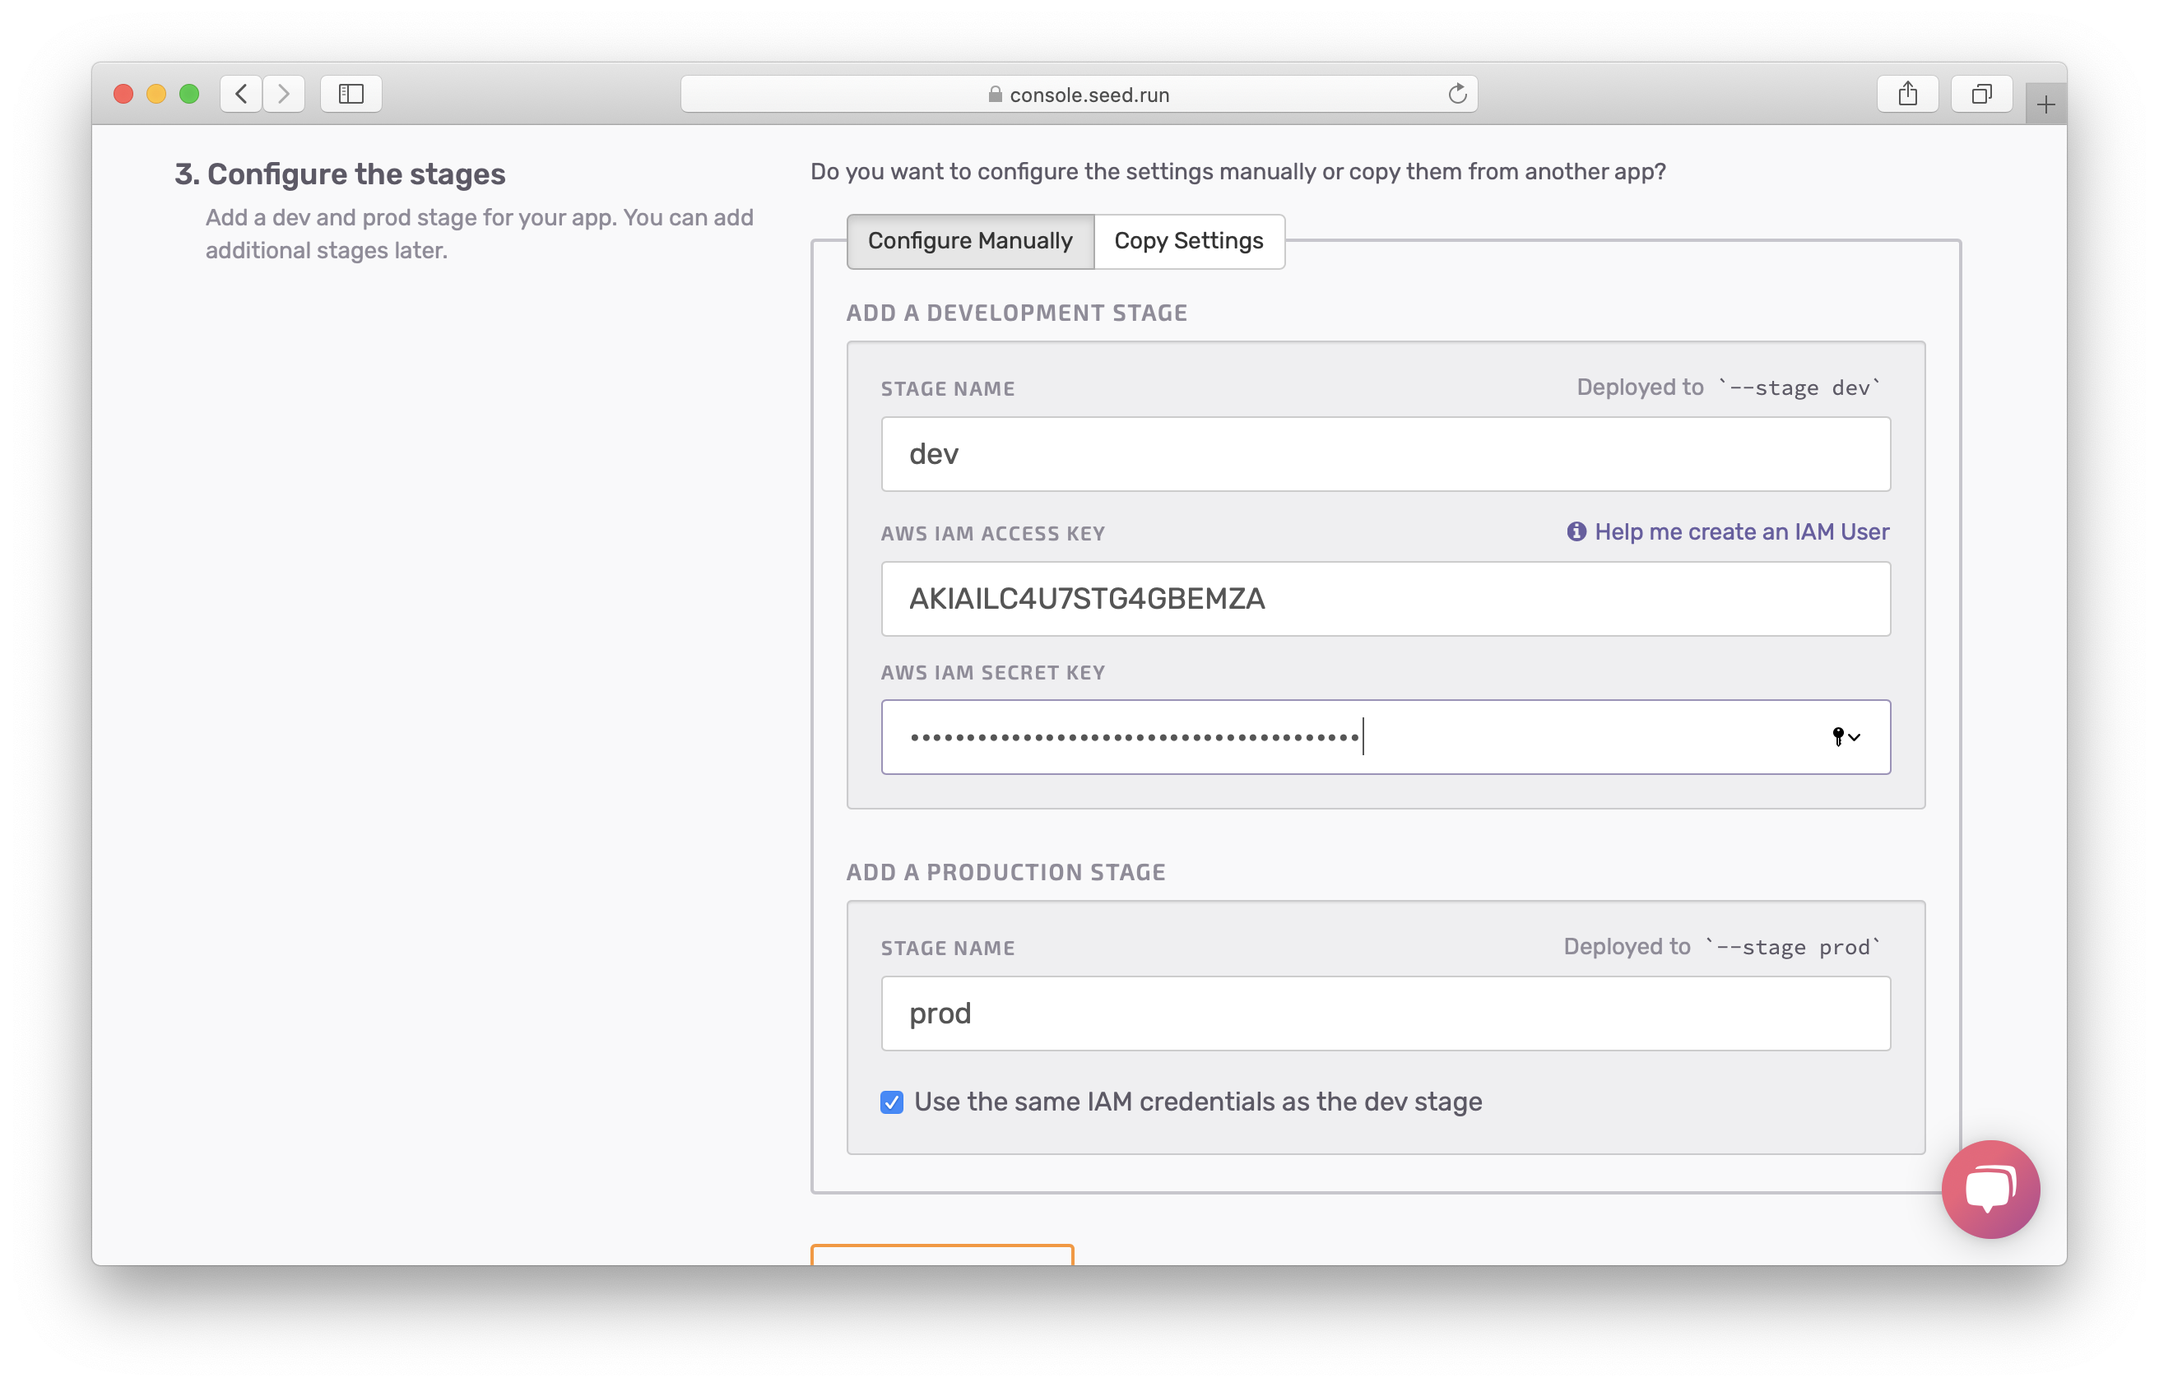
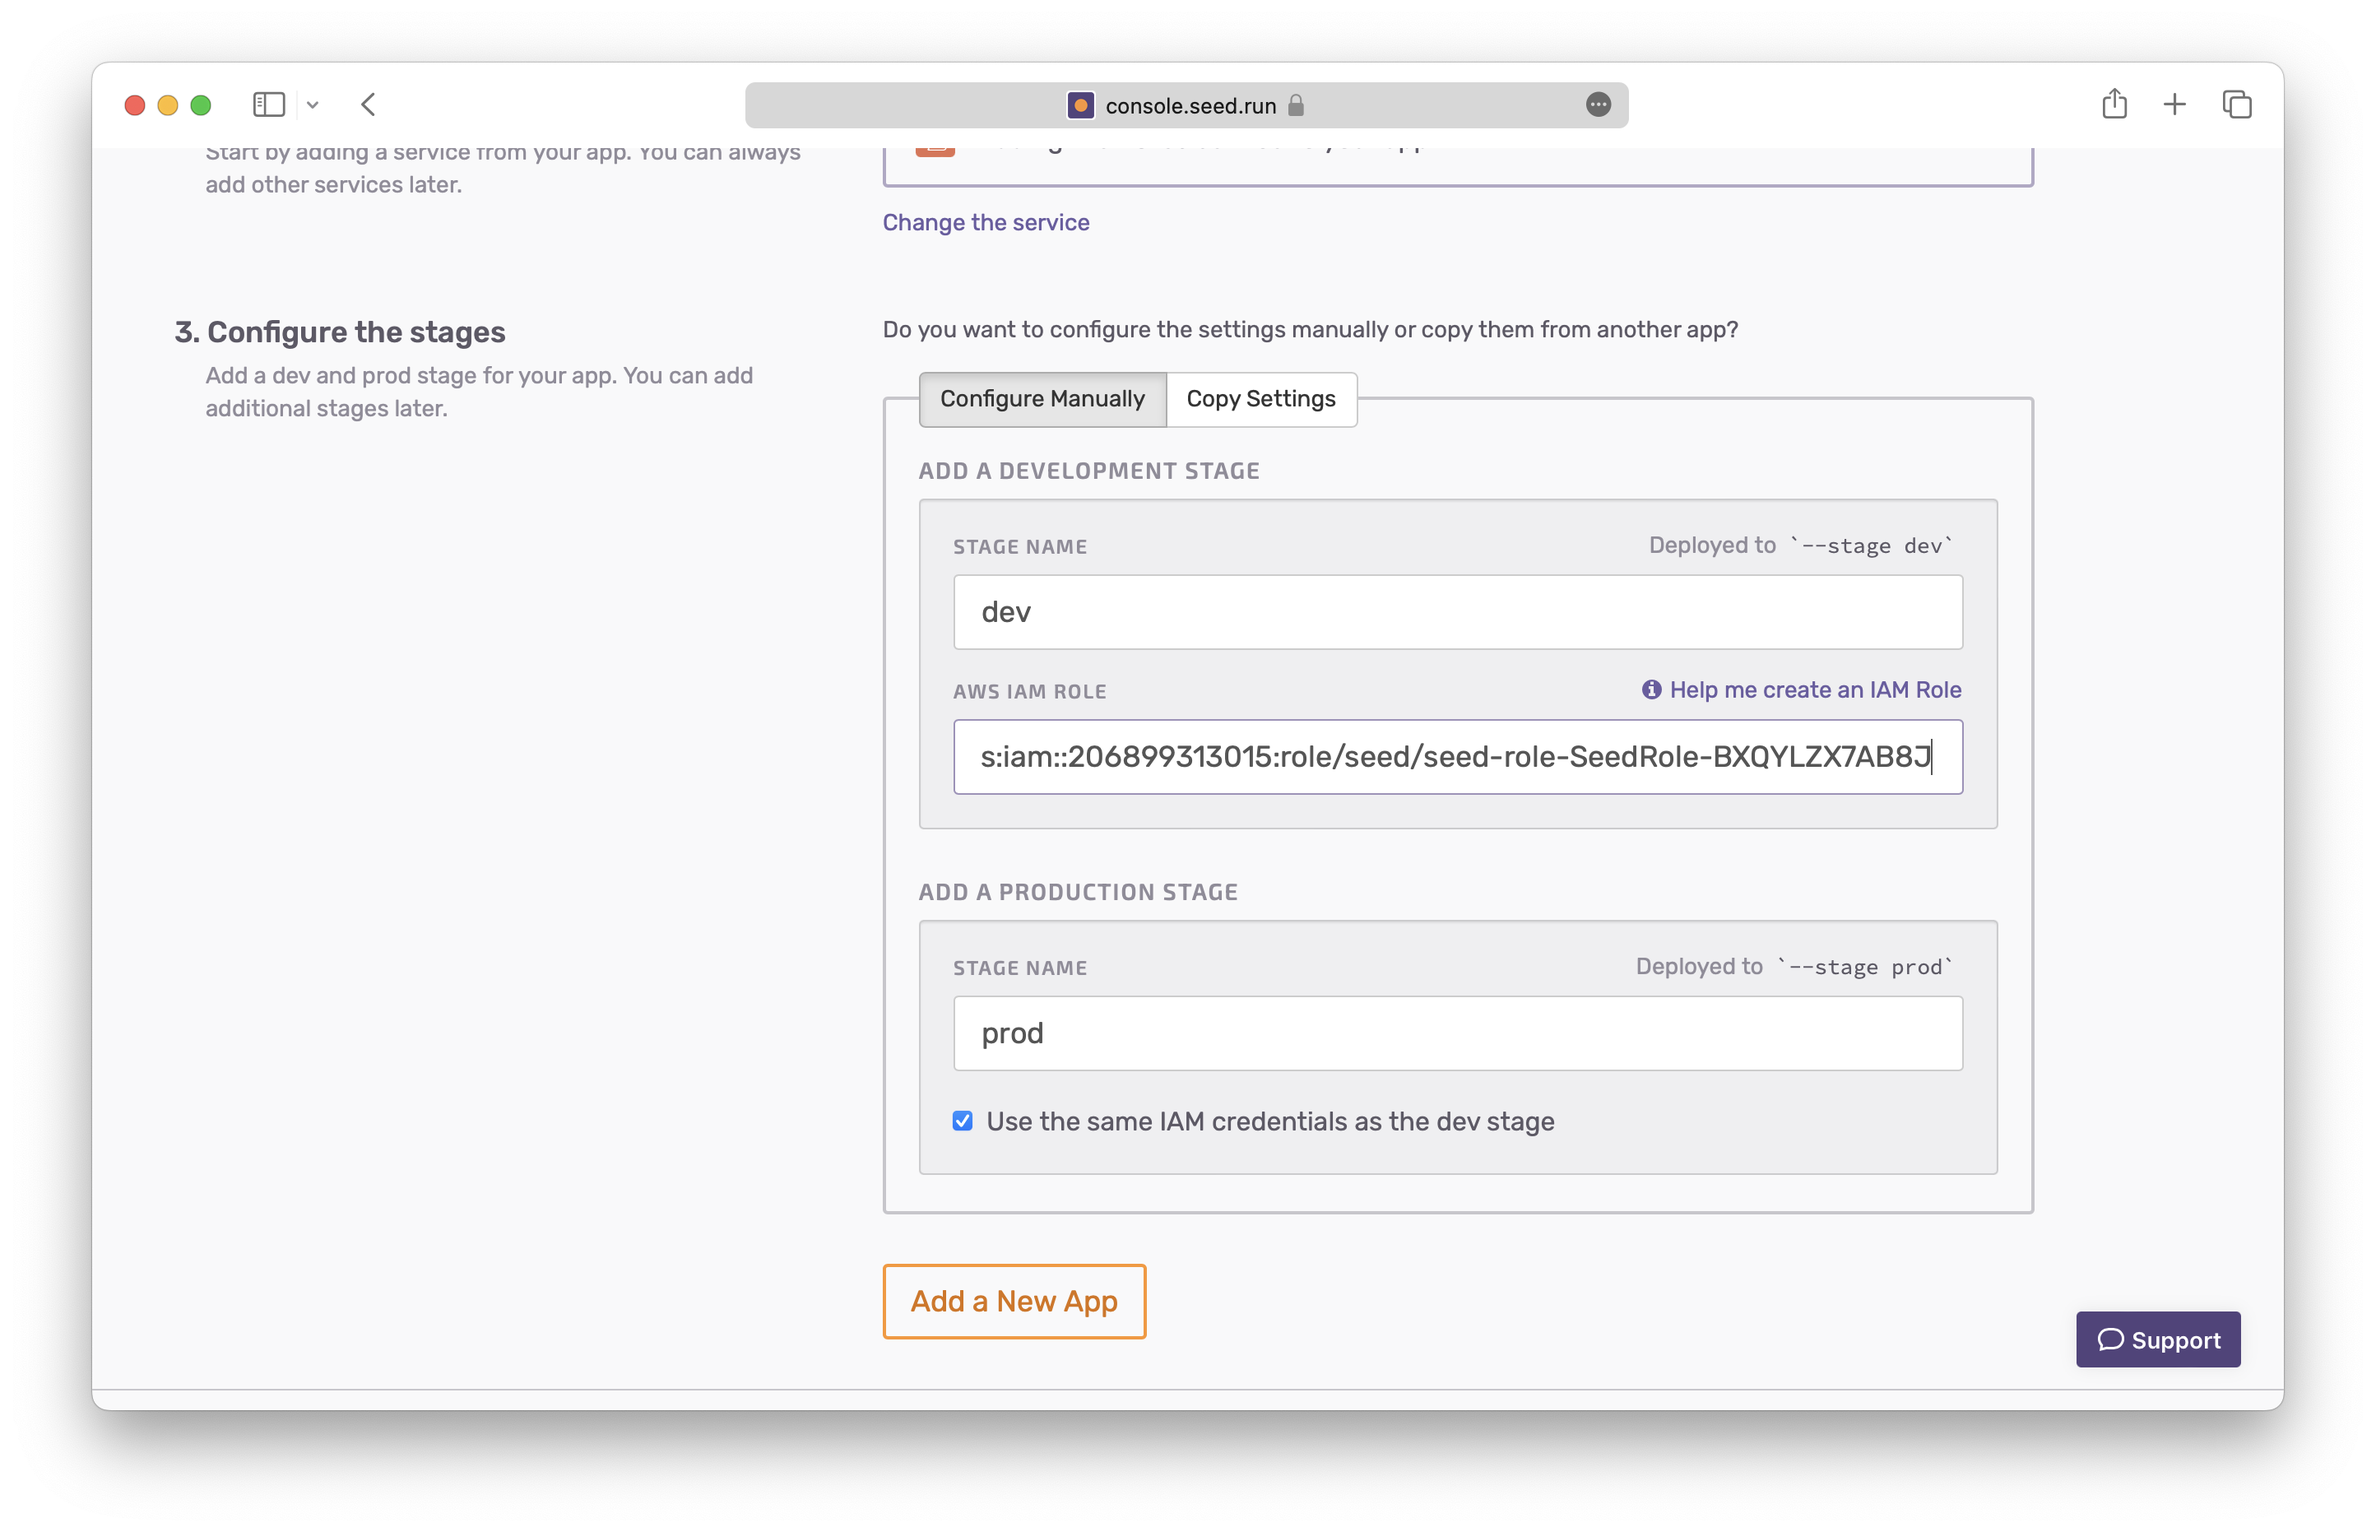
Editing Seed IAM role steps

diff --git a/_chapters/setting-up-your-project-on-seed.md b/_chapters/setting-up-your-project-on-seed.md
@@ -28,33 +28,45 @@ Next, Seed will automatically detect the `sst.config.ts` file in your repo. Clic
 
 ![SST app detected](/assets/part2/sst-app-detected.png)
 
-Seed deploys to your AWS account on your behalf. You should create a separate IAM user with exact permissions that your project needs. You can read more about this [here](https://seed.run/docs/customizing-your-iam-policy). But for now we'll simply use the one we've used in this tutorial.
+Seed uses an IAM role to deploy to your AWS account on your behalf. It's more secure than the IAM user we created previously in this guide. An IAM role gives Seed temporary IAM credentials to deploy your app. These credentials expire after a short period of time.
 
-{%change%} Run the following command.
+![Seed AWS IAM Role form](/assets/part2/seed-aws-iam-role-form.png)
 
-``` bash
-$ cat ~/.aws/credentials
+You should create this IAM role with the exact permissions that your project needs. You can read more about this [here](https://seed.run/docs/customizing-your-iam-policy). But for now we'll simply use the default one.
+
+![Seed create IAM role](/assets/part2/seed-create-iam-role.png)
+
+Click the **Create an IAM Role using CloudFormation** button. This will send you to the AWS Console and ask you to create a CloudFormation stack.
+
+![AWS create CloudFormation stack](/assets/part2/aws-create-cloudformation-stack.png)
+
+Scroll down, **confirm** the checkbox at the bottom and click **Create stack**.
+
+![AWS click create CloudFormation stack](/assets/part2/aws-click-create-cloudformation-stack.png)
+
+It will take a couple of minutes to create the stack. Once complete, click the **Outputs** tab.
+
+![AWS CloudFormation stack outputs](/assets/part2/aws-cloudformation-stack-outputs.png)
+
+Copy the **RoleArn value**. Ours looks something like this.
+
+```text
+arn:aws:iam::206899313015:role/seed/seed-role-SeedRole-BXQYLZX7AB8J
 ```
 
-The output should look something like this.
-
-``` txt
-[default]
-aws_access_key_id = YOUR_IAM_ACCESS_KEY
-aws_secret_access_key = YOUR_IAM_SECRET_KEY
-```
-
-Seed will also create a couple of stages (or environments) for you. By default, it'll create a **dev** and a **prod** stage using the same AWS credentials. You can customize these but we'll use the defaults.
-
-Fill in the credentials and click **Add a New App**.
+Now back in Seed, you can paste the credentials.
 
 ![Add AWS IAM credentials](/assets/part2/add-aws-iam-credentials.png)
 
+Seed will also create a couple of stages (or environments) for you. By default, it'll create a **dev** and a **prod** stage using the same AWS credentials. You can customize these but we'll use the defaults.
+
+Finally click **Add a New App**.
+
 Your new app is created. You'll notice a few things here. First, we have a service called **notes**. It's picking up the name from our `sst.config.ts` file. You can choose to change this by clicking on the service and editing its name.  You'll also notice the two stages that have been created.
 
-Our app can have multiple services within it. A service (roughly speaking) is a reference to a `sst.config.ts` or `serverless.yml` file (for Serverless Framework). In our case we just have the one service.
-
 ![Seed app homepage](/assets/part2/seed-app-homepage.png)
+
+Our app can have multiple services within it. A service (roughly speaking) is a reference to a `sst.config.ts` or `serverless.yml` file (for Serverless Framework). In our case we just have the one service.
 
 Now before we proceed to deploying our app, we need to enable running unit tests as a part of our build process. You'll recall that we had added a couple of tests back in the [unit tests]({% link _chapters/unit-tests-in-serverless.md %}) chapter. And we want to run those before we deploy our app.
 

diff --git a/_chapters/changelog.md b/_chapters/changelog.md
@@ -23,9 +23,15 @@ You can get these updates emailed to you via our [newsletter]({% link newsletter
 
 ### Changes
 
-#### [v8.0: {{ site.data.changelog.current.title }}](https://branchv80.archives.sst.dev/) (Current)
+#### [v8.0.1: {{ site.data.changelog.current.title }}](https://branchv801.archives.sst.dev/) (Current)
 
 {{ site.data.changelog.current.desc }}
+
+- [Tutorial changes]({{ site.github_repo }}/compare/v8.0...v8.0.1)
+
+#### [v8.0: {{ site.data.changelog.v8-0.title }}](https://branchv80.archives.sst.dev/)
+
+{{ site.data.changelog.v8-0.desc }}
 
 - [Tutorial changes]({{ site.github_repo }}/compare/v7.4...v8.0)
 - [Demo notes app source]({{ site.sst_demo_repo }}/compare/v1.4...v2.0)
